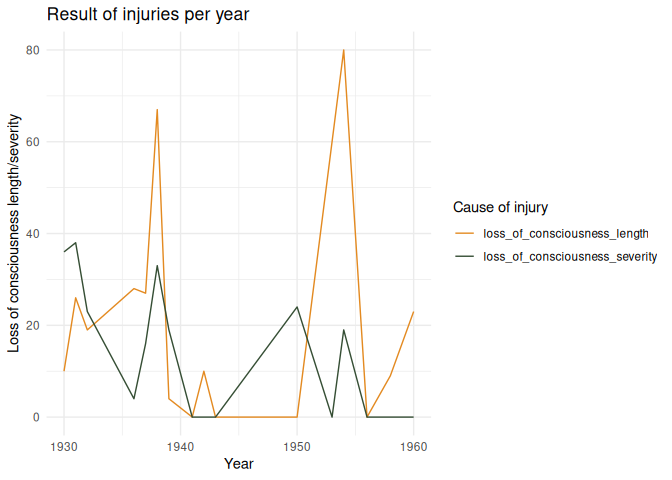
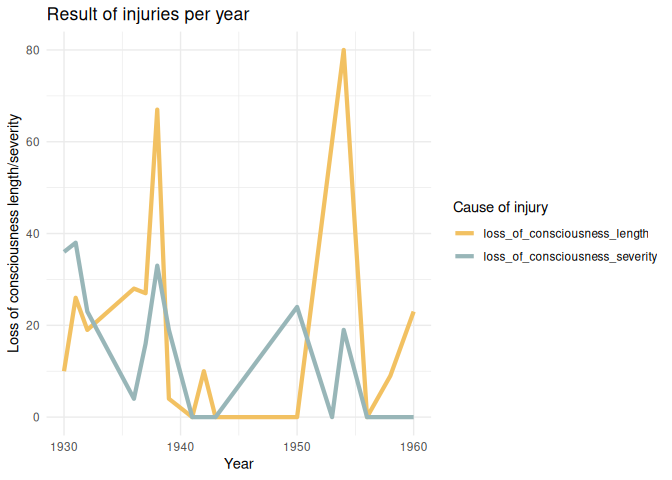
colours by hand

diff --git a/README.md b/README.md
@@ -79,7 +79,7 @@ ggplot(total_head_trauma_10) +
     title = "Top ten causes of injury") +
   scale_fill_manual(values = tintin_clrs(
     n = length(unique(total_head_trauma_10$book_title)), 
-    option = "the_castafiore_emerald"),
+    option = "the_black_island"),
     name = "Book") +
   coord_flip()
 ```
@@ -94,7 +94,7 @@ ggplot(total_head_trauma_10) +
     fill = book_title), position = "dodge") +
   labs(x = "Cause of injury", y = "Loss of consciousness length",
     title = "Top ten causes of injury") +
-  scale_fill_manual(values = tintin_pal(option = "the_castafiore_emerald")(8), 
+  scale_fill_manual(values = tintin_pal(option = "the_black_island")(8), 
     name = "Book") +
   coord_flip()
 ```
@@ -113,7 +113,7 @@ total_head_trauma_y <- tintin_head_trauma %>%
   pivot_longer(loss_of_consciousness_length:loss_of_consciousness_severity)
 
 ggplot(total_head_trauma_y) +
-  geom_line(aes(x = year, y = value, color = name)) +
+  geom_line(aes(x = year, y = value, color = name), linewidth = 1.5) +
   labs(x = "Year", y = "Loss of consciousness length/severity",
     title = "Result of injuries per year") +
   theme_minimal() +
@@ -134,7 +134,7 @@ dsub$diff <- with(dsub, sqrt(abs(x - y)) * sign(x - y))
 d <- ggplot(dsub, aes(x, y, colour = diff)) + geom_point()
 
 d + 
-  scale_colour_tintin_c(option = "tintin_in_the_land_of_the_soviets") + 
+  scale_colour_tintin_c(option = "the_castafiore_emerald") + 
   theme_bw()
 ```
 
